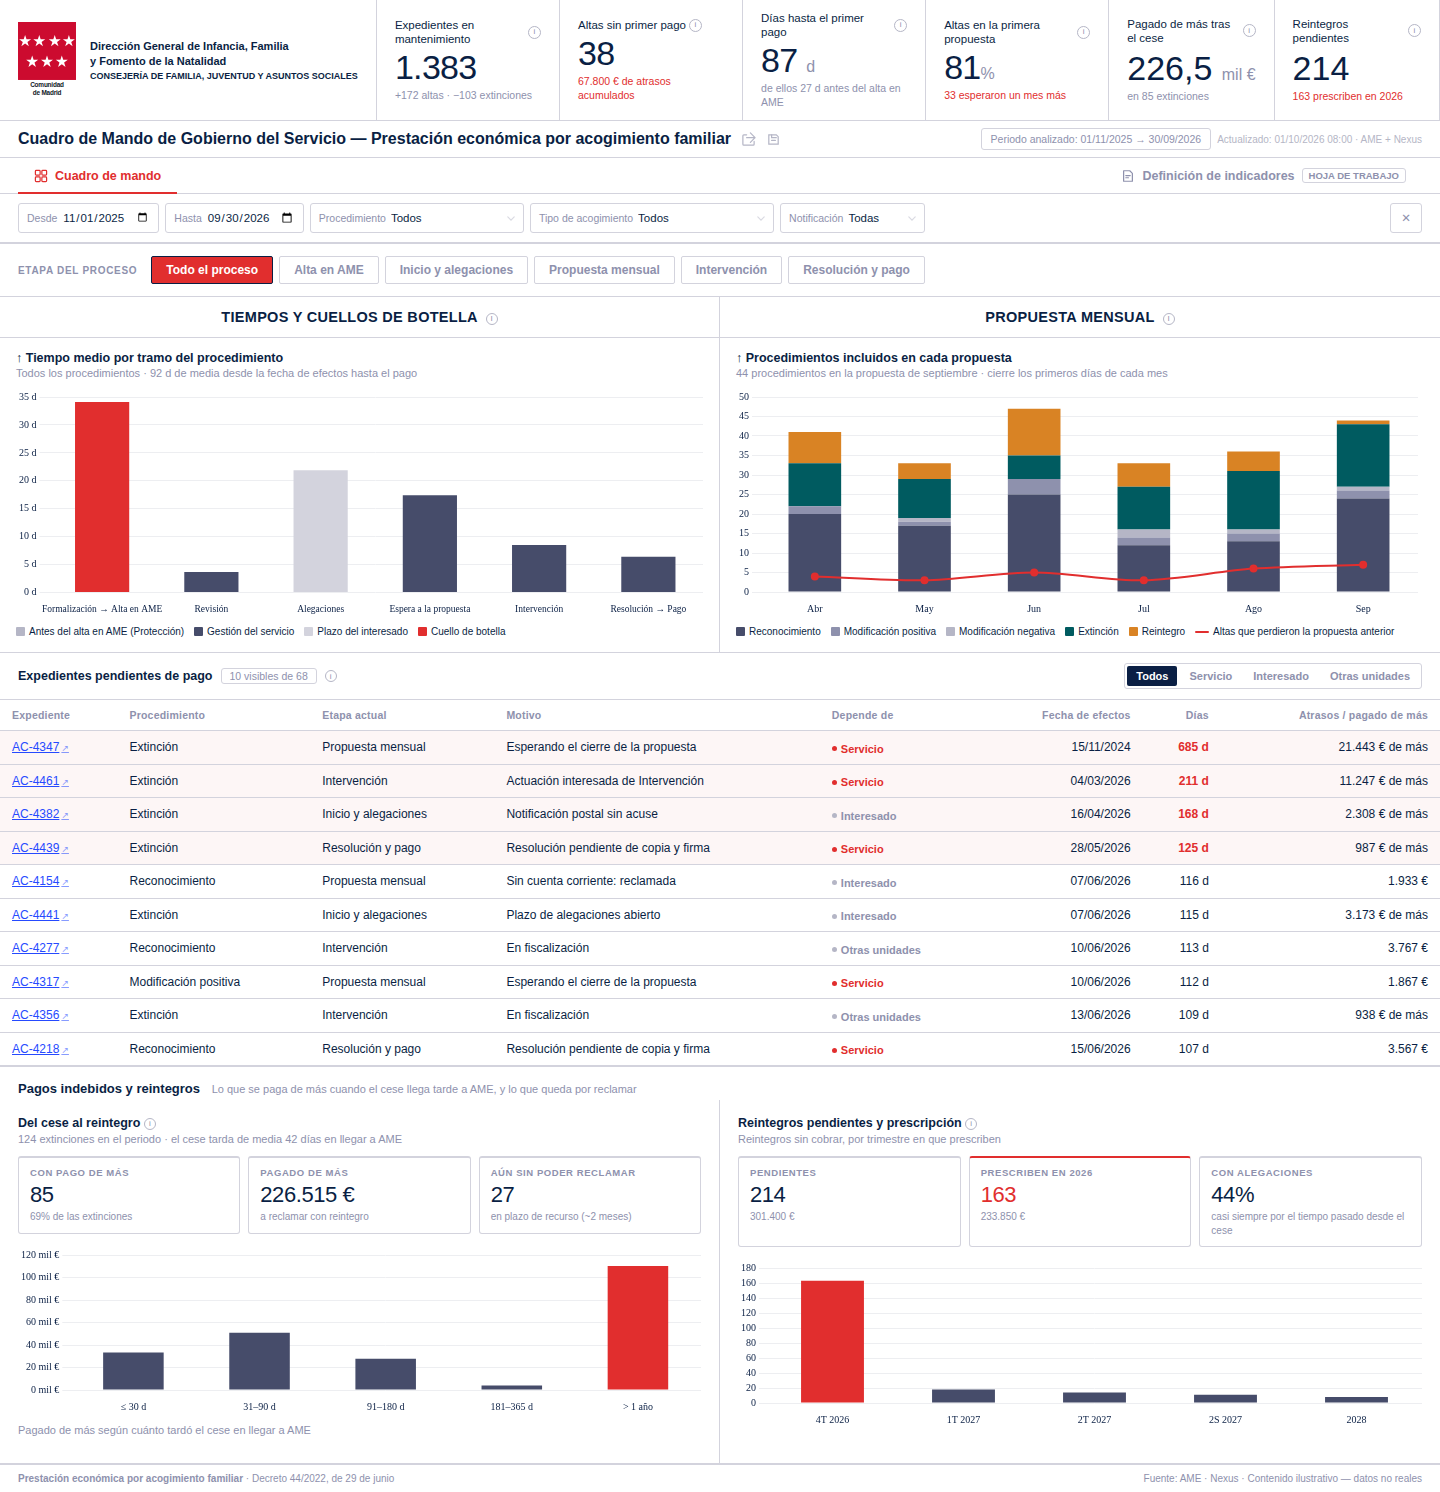
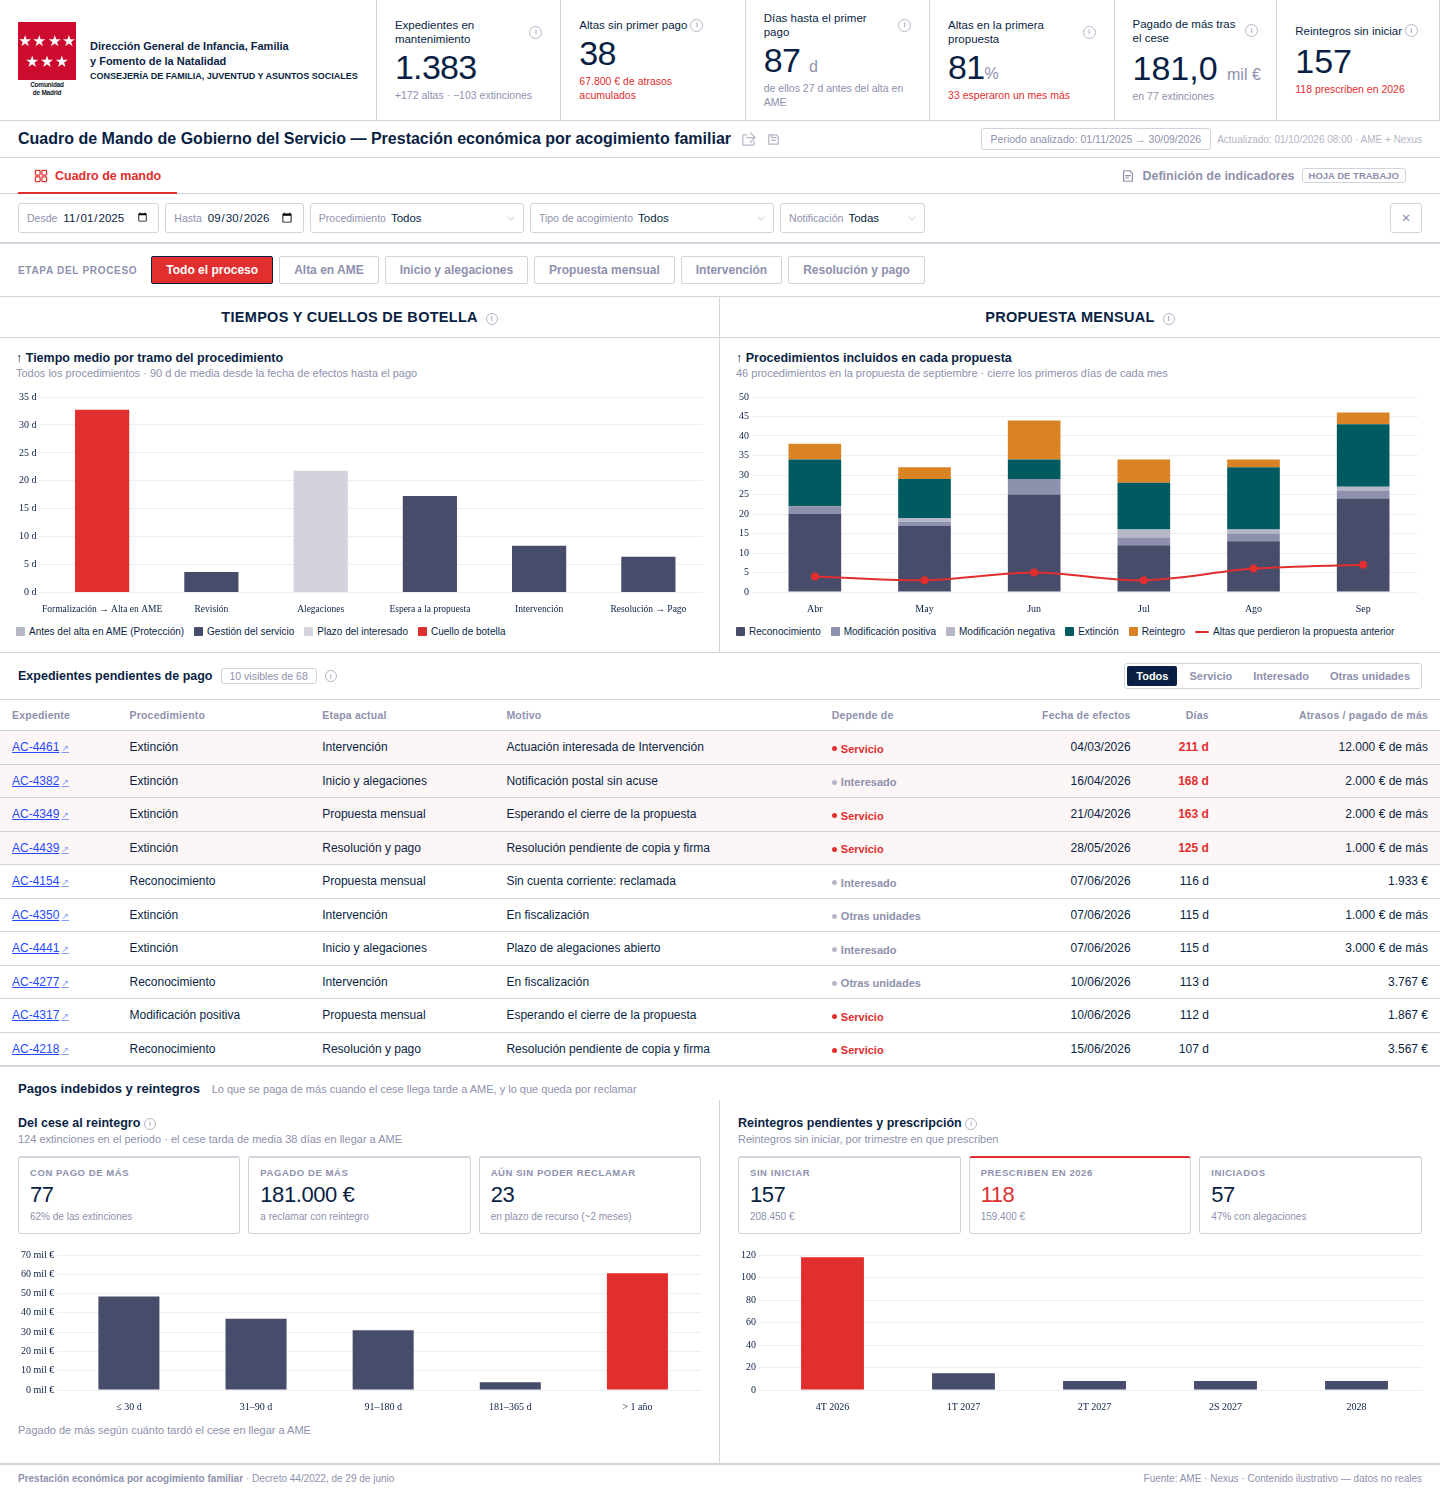
Acogimiento v2: origen del dato por actividad, reintegros sin iniciar (prescripción) y pago de más según nóminas pagadas tras el cese
Claude-Session: https://claude.ai/code/session_012PCcGQXYr4PR8xb2pBrhox

diff --git a/mockups/MockupAcogimiento_v2.html b/mockups/MockupAcogimiento_v2.html
@@ -964,7 +964,7 @@ th.col-focus{background:#FAFAFB!important;color:#0A1F44!important;}
       <table class="act-tbl"><thead id="actTH1"></thead><tbody id="actTB1"></tbody></table>
     </div>
     <div class="act-col">
-      <h4>Desviaciones de retrabajos <i class="ii" data-t="Nº veces = actividades ÷ expedientes; Nº repeticiones = actividades − expedientes. Para priorizar, mirad «% exp. con retrabajo» (si el problema es general o de unos pocos casos) y «Días perdidos» (repeticiones × tiempo medio de la actividad).">i</i></h4>
+      <h4>Desviaciones de retrabajos <i class="ii" data-t="Cada actividad indica de qué sistema sale su fecha (AME, Nexus) o si está por confirmar que quede registrada. Nº veces = actividades ÷ expedientes; Nº repeticiones = actividades − expedientes. Para priorizar, mirad «% exp. con retrabajo» (si el problema es general o de unos pocos casos) y «Días perdidos» (repeticiones × tiempo medio de la actividad).">i</i></h4>
       <table class="act-tbl"><thead id="actTH2"></thead><tbody id="actTB2"></tbody></table>
     </div>
   </div>
@@ -1000,8 +1000,8 @@ th.col-focus{background:#FAFAFB!important;color:#0A1F44!important;}
     <p style="margin-top:8px;">Pagado de más según cuánto tardó el cese en llegar a AME</p>
   </div>
   <div class="pz-col">
-    <h3>Reintegros pendientes y prescripción <i class="ii" data-t="Reintegros todavía no cobrados, agrupados por cuándo prescriben. Los de este año son los que hay que notificar antes de diciembre. Plazo de prescripción y fechas por confirmar con el servicio.">i</i></h3>
-    <p>Reintegros sin cobrar, por trimestre en que prescriben</p>
+    <h3>Reintegros pendientes y prescripción <i class="ii" data-t="Pagos de más sin reintegro iniciado, agrupados por cuándo prescriben. Notificar el acuerdo de inicio interrumpe la prescripción: los de este año son los que hay que notificar antes de diciembre. El cobro se sigue fuera de AME. Plazo de prescripción por confirmar con el servicio.">i</i></h3>
+    <p>Reintegros sin iniciar, por trimestre en que prescriben</p>
     <div class="bgt-cards" id="reCards"></div>
     <div class="chart-wrap" style="height:170px;margin-top:12px;"><canvas id="cPresc"></canvas></div>
   </div>
@@ -1062,12 +1062,13 @@ const EXP=[];
   const T0=0, T1=Date.UTC(2025,10,1);
   Object.keys(VOL).forEach(proc=>{
     for(let i=0;i<VOL[proc];i++){
-      const tipo=pick([['Carácter general',.58],['Carácter especial',.12],['Programa de urgencia',.30]]);
+      const tarde = proc==='ext' && i<2;   /* algún cese que llega con más de un año (sesión 14/08) */
+      const tipo= tarde ? 'Carácter general' : pick([['Carácter general',.58],['Carácter especial',.12],['Programa de urgencia',.30]]);
       const not=pick([['Telemática',.55],['Postal',.45]]);
       const sinCuenta = proc==='rec' && rnd()<.22;
       const actInt = rnd()<.12;
       const t=[
-        proc==='mpos' ? lgn(55,.8,5) : (proc==='ext'&&i<3 ? 400+rnd()*300 : lgn(14,1.05,1)),   /* discapacidad: retraso de los centros base · algún cese que llega con más de un año (sesión 14/08) */
+        proc==='mpos' ? lgn(55,.8,5) : (tarde ? 400+rnd()*200 : lgn(14,1.05,1)),   /* discapacidad: retraso de los centros base · algún cese que llega con más de un año (sesión 14/08) */
         lgn(3,.5,1) + (proc==='mpos'&&rnd()<.3 ? lgn(4,.5,1) : 0),     /* recálculo manual si AME «cortocircuita» */
         (not==='Postal' ? lgn(30,.35,14) : lgn(13,.2,10)),
         rnd()*28 + (sinCuenta ? 30 : 0),
@@ -1086,15 +1087,22 @@ const EXP=[];
     e.etapa=k;                 /* 1..5 en curso · 6 pagado / resuelto */
     e.fin = k===6;
     e.prop = e.alta + (e.t[1]+e.t[2]+e.t[3])*DIA;   /* mes de la propuesta en la que entra */
-    e.indeb = e.proc==='ext' && e.t[0]>10 ? Math.round(e.t[0]/30*e.imp) : 0;
+    /* hay pago de más si entre el cese y su grabación en AME se pagó alguna nómina (se paga a primeros de mes);
+       el importe son esas mensualidades (la parte del mes del cese se prorratea en AME; aquí se simplifica) */
+    { const dm=new Date(e.efectos).getUTCDate(), aNomina = dm<=5 ? 5-dm : 35-dm;
+      const nominas = e.t[0]>aNomina ? Math.floor((e.t[0]-aNomina)/30)+1 : 0;   /* nóminas pagadas después del cese */
+      e.indeb = e.proc==='ext' && nominas ? Math.round(nominas*e.imp) : 0; }
   });
 })();
 /* reintegros pendientes de cobro, incluidos los antiguos que prescriben en diciembre (unos 200, sesión 14/08) */
 const PRESC=['4T 2026','1T 2027','2T 2027','2S 2027','2028'];
 const REINT=[];
-(function(){ const n=[163,18,14,11,8];
-  n.forEach((c,q)=>{ for(let i=0;i<c;i++) REINT.push({q, tipo:pick([['Carácter general',.6],['Carácter especial',.1],['Programa de urgencia',.3]]),
-    imp:Math.round(lgn(1100,.7,150)/50)*50, aleg: rnd()<.41}); });
+/* estado: «sin iniciar» (aún sin acuerdo de inicio: es lo que puede prescribir) o «iniciado» (notificado: la prescripción se interrumpe).
+   El cobro efectivo se sigue fuera de AME, así que aquí no se mide. */
+(function(){ const n=[163,18,14,11,8], ini=[.28,.2,.15,.1,.05];
+  n.forEach((c,q)=>{ for(let i=0;i<c;i++){ const iniciado=rnd()<ini[q];
+    REINT.push({q, tipo:pick([['Carácter general',.6],['Carácter especial',.1],['Programa de urgencia',.3]]),
+      imp:Math.round(lgn(1100,.7,150)/50)*50, iniciado, aleg: iniciado && rnd()<.41}); } });
 })();
 
 /* ── filtros ── */
@@ -1112,7 +1120,7 @@ const TIP={
  'Días hasta el primer pago':'Días desde la fecha de efectos del acogimiento hasta el primer pago, en las altas ya pagadas. Debajo, cuántos de esos días pasaron antes de que el alta llegara a AME, que es la parte que graba Protección.',
  'Altas en la primera propuesta':'Altas que entraron en la primera propuesta mensual posible. Las demás esperaron un mes más, casi siempre porque la cuenta corriente no llegó antes del cierre.',
  'Pagado de más tras el cese':'Importe pagado entre la fecha de efectos del cese y su grabación en AME, en las extinciones del periodo. Es lo que después hay que reclamar con un reintegro.',
- 'Reintegros pendientes':'Reintegros todavía no cobrados. Debajo, los que prescriben este año si no se notifican antes.',
+ 'Reintegros sin iniciar':'Pagos de más que todavía no tienen procedimiento de reintegro notificado. Notificar el acuerdo de inicio interrumpe la prescripción; debajo, los que prescriben este año si no se notifica antes.',
 };
 function ks(lbl,val,cls,sub,grp){ return `<div class="ks ${grp?'ks-pred':'ks-fix'}"><div class="ks-lbl">${lbl} <i class="ii" data-t="${TIP[lbl]||''}">i</i></div>`+
   `<div class="ks-val">${val}</div><div class="ks-delta ${cls}">${sub}</div></div>`; }
@@ -1132,10 +1140,10 @@ function renderHdr(P){
     ks('Días hasta el primer pago',dias?Math.round(dias)+' <span class="u">d</span>':'—','na',dias?`de ellos ${Math.round(antes)} d antes del alta en AME`:'')+
     ks('Altas en la primera propuesta',recFin.length?Math.round(prim)+'<span class="u">%</span>':'—',aplaz?'bad':'na',aplaz?`${nfmt(aplaz)} esperaron un mes más`:'');
   const ext=P.filter(e=>e.proc==='ext'), ind=ext.filter(e=>e.indeb>0);
-  const R=REINT.filter(r=>!f.tipo||r.tipo===f.tipo), r26=R.filter(r=>r.q===0).length;
+  const R=REINT.filter(r=>(!f.tipo||r.tipo===f.tipo)&&!r.iniciado), r26=R.filter(r=>r.q===0).length;
   $('kpiInd').innerHTML=
     ks('Pagado de más tras el cese',(ind.reduce((a,e)=>a+e.indeb,0)/1000).toFixed(1).replace('.',',')+' <span class="u">mil €</span>','na',`en ${nfmt(ind.length)} extinciones`,true)+
-    ks('Reintegros pendientes',nfmt(R.length),'bad',`${nfmt(r26)} prescriben en 2026`,true);
+    ks('Reintegros sin iniciar',nfmt(R.length),'bad',`${nfmt(r26)} prescriben en 2026`,true);
   $('scopeChip').textContent='Periodo analizado: '+fdate(f.ini)+' → '+fdate(f.fin-DIA);
 }
 
@@ -1214,18 +1222,22 @@ document.querySelectorAll('#respTabs button').forEach(b=>b.onclick=()=>{respKey=
 
 /* ── actividades por etapa ── */
 /* [actividad, tiempo medio, tiempo mediano, % de expedientes que pasan, veces por expediente, repeticiones por expediente afectado] */
+/* 8º campo: de dónde sale el evento. Solo se mide lo que deja fecha en un sistema;
+   lo que hoy se hace por teléfono, correo o Excel queda «por confirmar» hasta revisarlo con Soluciones. */
 const ACT={
-  alta:[['Grabación del alta en AME (Protección)',0,0,1,1.00,1,'t0'],['Aviso por correo al servicio',1.2,1.0,1,1.00,1],
-        ['Revisión del expediente',2.6,2.0,1,1.12,1.3],['Recálculo manual del importe',1.8,1.0,.14,1.35,1.4]],
-  inicio:[['Acuerdo de inicio',1.5,1.0,1,1.00,1],['Notificación',9.8,4.0,1,1.18,1.1],['Plazo de alegaciones',10.4,10.0,1,1.00,1],
-          ['Reclamación de la cuenta corriente',12.5,7.0,.22,1.45,1.5,'rec'],['Incorporación de alegaciones',3.2,2.0,.08,1.05,1]],
-  propuesta:[['Expediente completo (borrador)',1.4,1.0,1,1.03,1],['Validación de terceros en Nexus',2.1,1.0,1,1.08,4.0,'rec'],
-             ['Generación del documento D',1.0,1.0,1,1.00,1,'rec'],['Espera al cierre de la propuesta',0,0,1,1.00,1,'t3'],
-             ['Espera a la propuesta siguiente (sin cuenta a tiempo)',30.0,30.0,1,1.22,1,'rec']],
-  interv:[['Envío a Intervención',2.2,2.0,1,1.00,1],['Fiscalización del borrador',5.8,5.0,1,1.12,1.0],
-          ['Actuación interesada',4.1,3.0,.12,1.20,1.3],['Corrección y reenvío',2.5,2.0,.12,1.10,1]],
-  resol:[['Resolución definitiva (copia manual)',2.3,1.5,1,1.04,3.0],['Firma de la directora',1.6,1.0,1,1.00,1],
-         ['Notificación de la resolución (en paralelo al pago)',8.9,4.0,1,1.06,1.1],['Pago en nómina',3.1,3.0,.62,1.00,1]],
+  alta:[['Alta del acogimiento en AME (Protección)',0,0,1,1.00,1,'t0','AME'],
+        ['Revisión del expediente y cálculo del importe',2.6,2.0,1,1.12,1.3,'','AME'],
+        ['Corrección manual del importe',1.8,1.0,.14,1.35,1.4,'','?']],
+  inicio:[['Acuerdo de inicio',1.5,1.0,1,1.00,1,'','AME'],['Notificación del acuerdo',9.8,4.0,1,1.18,1.1,'','?'],
+          ['Plazo de alegaciones',10.4,10.0,1,1.00,1,'','AME'],['Alta de la cuenta corriente',12.5,7.0,.22,1.45,1.5,'rec','?'],
+          ['Incorporación de alegaciones',3.2,2.0,.08,1.05,1,'','AME']],
+  propuesta:[['Expediente completo (borrador)',1.4,1.0,1,1.03,1,'','AME'],['Validación de terceros',2.1,1.0,1,1.08,4.0,'rec','Nexus'],
+             ['Generación del documento D',1.0,1.0,1,1.00,1,'rec','AME'],['Espera al cierre de la propuesta',0,0,1,1.00,1,'t3','AME'],
+             ['Espera a la propuesta siguiente (sin cuenta a tiempo)',30.0,30.0,1,1.22,1,'rec','AME']],
+  interv:[['Envío a Intervención',2.2,2.0,1,1.00,1,'','AME'],['Fiscalización del borrador',5.8,5.0,1,1.12,1.0,'','?'],
+          ['Actuación interesada y reenvío',4.1,3.0,.12,1.20,1.3,'','?']],
+  resol:[['Resolución definitiva',2.3,1.5,1,1.04,3.0,'','AME'],['Firma de la directora',1.6,1.0,1,1.00,1,'','?'],
+         ['Notificación de la resolución (en paralelo al pago)',8.9,4.0,1,1.06,1.1,'','?'],['Pago en nómina',3.1,3.0,.62,1.00,1,'','Nexus']],
 };
 const ST={alta:{n:'Alta en AME',k:1,meta:'De la formalización en el pleno a la revisión del expediente en AME'},
   inicio:{n:'Inicio y alegaciones',k:2,meta:'Acuerdo de inicio, notificación y 10 días de alegaciones'},
@@ -1234,6 +1246,8 @@ const ST={alta:{n:'Alta en AME',k:1,meta:'De la formalización en el pleno a la 
   resol:{n:'Resolución y pago',k:5,meta:'Resolución definitiva, firma, notificación y pago en nómina'}};
 const DIMV={tipo:[['Carácter general',.58,1,1],['Carácter especial',.12,1.2,1.15],['Programa de urgencia',.30,.9,.95]],
             not:[['Telemática',.55,.8,.9],['Postal',.45,1.35,1.15]]};
+function srcTag(s){ return s==='?' ? '<span class="src q" title="Hoy no consta que el sistema guarde la fecha de este paso">por confirmar</span>'
+                                  : '<span class="src">'+s+'</span>'; }
 function renderAct(){
   if(stageKey==='all') return;
   const dim=$('actDim').value, k=ST[stageKey].k;
@@ -1245,13 +1259,13 @@ function renderAct(){
   .forEach(a=>{ (dim?DIMV[dim]:[['',1,1,1]]).forEach((d,j)=>{
     const exp=Math.max(1,Math.round((a[6]==='rec'?baseRec:base)*a[3]*d[1])), veces=Math.max(1,1+(a[4]-1)*d[3]), act=Math.round(exp*veces), rep=act-exp;
     const afe=rep?Math.max(1,Math.min(exp,Math.round(rep/a[5]))):0;
-    rows.push({a:a[0],d:d[0],first:j===0,tm:a[1]*d[2],tmd:a[2]*Math.min(d[2],1.1),exp,act,veces:act/exp,rep,pct:afe/exp*100,perd:Math.round(rep*a[1]*d[2])});
+    rows.push({src:a[7],a:a[0],d:d[0],first:j===0,tm:a[1]*d[2],tmd:a[2]*Math.min(d[2],1.1),exp,act,veces:act/exp,rep,pct:afe/exp*100,perd:Math.round(rep*a[1]*d[2])});
   });});
   const maxT=Math.max(...rows.map(r=>r.tm)), maxD=Math.max(...rows.map(r=>r.tm-r.tmd)), maxP=Math.max(...rows.map(r=>r.perd));
   const dc=dim?`<th>${dim==='tipo'?'Tipo de acogimiento':'Notificación'}</th>`:'';
   $('actTH1').innerHTML=`<tr><th>Actividad</th>${dc}<th class="r">Tiempo medio</th><th class="r">Tiempo mediano</th><th class="r">Desviación</th></tr>`;
   $('actTH2').innerHTML=`<tr><th>Actividad</th>${dc}<th class="r">Nº veces</th><th class="r">Nº expedientes</th><th class="r">Nº actividades</th><th class="r">Nº repeticiones</th><th class="r">% exp. con retrabajo</th><th class="r">Días perdidos</th></tr>`;
-  const tdA=r=>`<td class="act">${r.first?r.a:''}</td>`+(dim?`<td class="dim">${r.d}</td>`:'');
+  const tdA=r=>`<td class="act">${r.first?r.a+srcTag(r.src):''}</td>`+(dim?`<td class="dim">${r.d}</td>`:'');
   const cls=r=>dim&&r.first?' class="grp"':'';
   $('actTB1').innerHTML=rows.map(r=>`<tr${cls(r)}>${tdA(r)}<td class="r${r.tm===maxT?' hi':''}">${f1(r.tm)} d</td><td class="r">${f1(r.tmd)} d</td>`+
     `<td class="r${r.tm-r.tmd===maxD?' hi':''}">+${f1(r.tm-r.tmd)} d <span class="dsv">${r.tmd?Math.round((r.tm/r.tmd-1)*100):0}%</span></td></tr>`).join('');
@@ -1282,12 +1296,12 @@ function renderInd(P){
   const b=BLIM.map(()=>0), n=BLIM.map(()=>0);
   ind.forEach(e=>{const i=BLIM.findIndex(l=>e.t[0]<=l); b[i]+=e.indeb; n[i]++;});
   chI.data.datasets[0].data=b; chI.$n=n; chI.data.datasets[0].backgroundColor=b.map(v=>v===Math.max(...b)?RED:SLA); chI.update();
-  const R=REINT.filter(r=>!f.tipo||r.tipo===f.tipo);
+  const RT=REINT.filter(r=>!f.tipo||r.tipo===f.tipo), R=RT.filter(r=>!r.iniciado), I=RT.filter(r=>r.iniciado);
   const imp=R.reduce((a,r)=>a+r.imp,0), r26=R.filter(r=>r.q===0);
   $('reCards').innerHTML=
-    `<div class="bc bc-dp"><span class="bc-l">Pendientes</span><b>${nfmt(R.length)}</b><em>${eur(imp)}</em></div>`+
+    `<div class="bc bc-dp"><span class="bc-l">Sin iniciar</span><b>${nfmt(R.length)}</b><em>${eur(imp)}</em></div>`+
     `<div class="bc bc-cm" style="border-top-color:var(--red);"><span class="bc-l">Prescriben en 2026</span><b style="color:var(--red);">${nfmt(r26.length)}</b><em>${eur(r26.reduce((a,r)=>a+r.imp,0))}</em></div>`+
-    `<div class="bc bc-ej"><span class="bc-l">Con alegaciones</span><b>${R.length?Math.round(R.filter(r=>r.aleg).length/R.length*100):0}%</b><em>casi siempre por el tiempo pasado desde el cese</em></div>`;
+    `<div class="bc bc-ej"><span class="bc-l">Iniciados</span><b>${nfmt(I.length)}</b><em>${I.length?Math.round(I.filter(r=>r.aleg).length/I.length*100):0}% con alegaciones</em></div>`;
   chR.data.datasets[0].data=PRESC.map((_,q)=>R.filter(r=>r.q===q).length);
   chR.$imp=PRESC.map((_,q)=>R.filter(r=>r.q===q).reduce((a,r)=>a+r.imp,0)); chR.update();
 }
@@ -1319,7 +1333,7 @@ const DFILAS=[
  ['Días antes del alta en AME','Parte de esos días que pasa antes de que Protección grabe el alta','Fecha de efectos','Alta en AME','Comunicaciones del pleno',1],
  ['Altas en la primera propuesta','Altas que entran en la primera propuesta posible','Expediente completo','Propuesta mensual','Anexo I de la propuesta',1],
  ['Pagado de más tras el cese','Importe pagado entre el cese y su grabación en AME','Fecha de efectos del cese','Alta de la extinción en AME','Anexo II · importes de reintegro',1],
- ['Reintegros pendientes','Reintegros sin cobrar y fecha en que prescriben','Resolución de extinción o modificación negativa','Cobro del reintegro','Relación de reintegros del servicio',1],
+ ['Reintegros sin iniciar','Pagos de más sin acuerdo de inicio de reintegro notificado, y cuándo prescriben','Resolución de extinción o modificación negativa','Notificación del acuerdo de inicio del reintegro','Relación de reintegros del servicio · plazo de prescripción por confirmar',1],
  ['Desviación de tiempo','Tiempo medio menos tiempo mediano de una actividad','Inicio de la actividad','Fin de la actividad','—',1],
  ['% de expedientes con retrabajo','Expedientes que repiten la actividad, sobre los que pasan por ella','Primera ejecución','Última ejecución','—',1],
  ['Días perdidos por retrabajo','Repeticiones de la actividad por su tiempo medio','Primera ejecución','Última ejecución','—',1],
@@ -1343,6 +1357,8 @@ dfInit(); render();
 <style>
 /* ajustes propios de acogimiento sobre el formato común */
 .ks-pred{background:#FAFAFB;}
+.act-tbl .src{display:inline-block;margin-left:6px;font-size:9px;font-weight:600;color:var(--cgy);border:1px solid var(--cbd);border-radius:3px;padding:0 4px;vertical-align:1px;}
+.act-tbl .src.q{color:#D98324;border-color:#F1D3A8;}
 .kpi-strip{min-width:0;} #kpiGlobal,#kpiInd{min-width:0;} .kpi-strip .ks{flex:1 1 0;min-width:0;}
 .kpi-strip .ks-lbl{white-space:normal;line-height:1.25;}
 #tbPend .hi-d{color:var(--cred);font-weight:600;}
